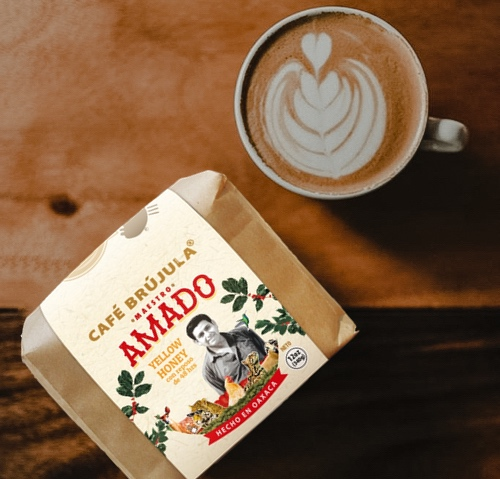
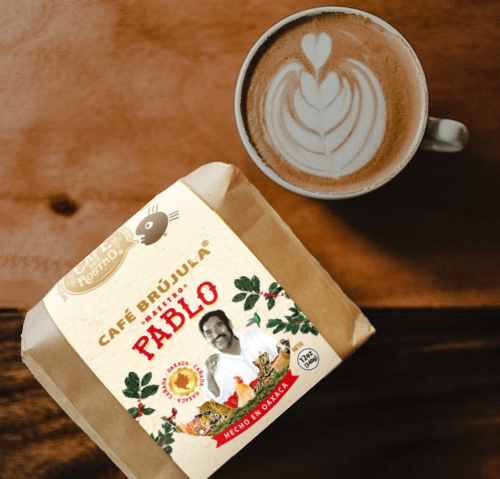
Nuevo Don Pablo

diff --git a/index.html b/index.html
@@ -51,11 +51,14 @@
                     <div class="col-xl-8 col-lg-7"><img class="img-fluid mb-3 mb-lg-0" src="assets/img/cherrybomb.jpg" alt="" /></div>
                     <div class="col-xl-4 col-lg-5">
                         <div class="featured-text text-center text-lg-left">
-                            <h4>AMADO</h4>
+                            <h4>DON PABLO</h4>
                             <p class="text-black-50 mb-0">
-Amado Eleuterio Ramírez, es un productor emprededor muy joven que con la sabiduría de su padre y su interés por aprender cosas nuevas han logrado incertarse en el café de especialidad desde hace más de 5 años.
+                              Don Pablo es un caficultor destacado que año con año produce cafés de excelencia, siempre por arriba de los 86 puntos en taza. En el año 2017 su café fue premiado en el premio a la calidad del café de Oaxaca.
+<br>
+<br>
+Cabe destacar que Don Pablo pertenece a un grupo de mieleros que logran diversificar sus ingresos entre café de especialidad y miel, siendo esto una mejora para la economía de l@s productor@s de su comunidad.
 <br><br>
-Este es el primer año q trabaja con nosotros y ha sido una grata experiencia por su excelente forma de trabajar y cuidar sus cafetales.<br> <br>
+Gracias a sus esfuerzos, hemos logrado caminar juntos, creando lazos con más productores comprometidos en la región Cañada, hoy en día llevamos más de cinco años disfrutando de sus exquisitos cafés.
 
                               </p>
                         </div>
@@ -77,17 +80,23 @@ Este es el primer año q trabaja con nosotros y ha sido una grata experiencia po
                                 <div class="project-text w-100 my-auto text-center text-lg-left">
                                     <h4 class="text-white">Proceso</h4>
                                     <p class="mb-0 text-white-50">
-Yellow Honey con 48 horas de reposo en cereza
+                                      Café lavado, cosechado selectivamente, despulpado manual, fermentado en cajones de ocotal y secado en brujucribas bajo sombra +15 días.
+
 
 <br><br>
 
-1. Cosechó solo granos maduros color rojo sangre y uva <br><br>
+Origen Oaxaca <br><br>
 
-2. Reposo la cereza en costales por 48 horas regulando temperatura <br><br>
+Región Cañada<br><br>
 
-2. Quito la pulpa del grano con ayuda de una despulpadora  <br><br>
+Comunidad San Jerónimo Tecoatl  <br><br>
 
-4.  Seco bajo sombra con la mayor cantidad de mucílago posible (azucares propias del grano)  bajo sombra más de 10 días <br><br>
+Altitud: 1700 msnm<br><br>
+Variedad Típica  <br><br>
+Variedad Típica  <br><br>
+Parcela El Porvenir <br><br>
+Puntaje 87+ <br> <br>
+
 
 
                                     <hr class="d-none d-lg-block mb-0 ml-0" />
@@ -105,7 +114,7 @@ Yellow Honey con 48 horas de reposo en cereza
                                 <div class="project-text w-100 my-auto text-center text-lg-right">
                                     <h4 class="text-white" style="text-align: left;">Perfil Sensorial</h4>
                                     <p class="mb-0 text-white-50" style="text-align: justify;">
- Muy elegante, Frutas secas, té negro, miel, vainilla, chocolate.
+Descubre los sabores exóticos que nos regala la región Cañada ¡Cocoa, dulce de caña y frutas tropicales! 🍒🥝🥭🍍
 
                                     <hr class="d-none d-lg-block mb-0 mr-0" />
                                 </div>
@@ -143,13 +152,11 @@ Yellow Honey con 48 horas de reposo en cereza
                                 <hr class="my-4" />
                                 <div class="small text-black-50" style="text-align:center;"> <p style="text-align: center;"></p> Pluma Hidalgo
 
-                        Pluma Hidalgo en la Sierra Sur <br> <br>
+                        Cañada <br> <br>
 
-                                  Variedad: Pluma Hidalgo  <br><br>
+                                  Variedad Típica  <br><br>
 
-                                  Nombre y tamaño de la parcela: 7 hectáreas <br><br>
-
-                                  Altura: 1500 msnm
+                                  Altura: 1700 msnm
 
 </div>
                             </div>
